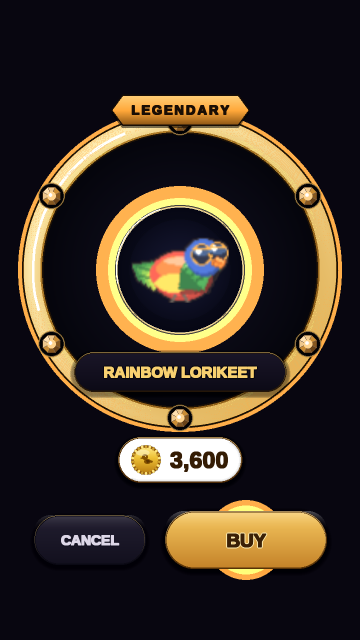
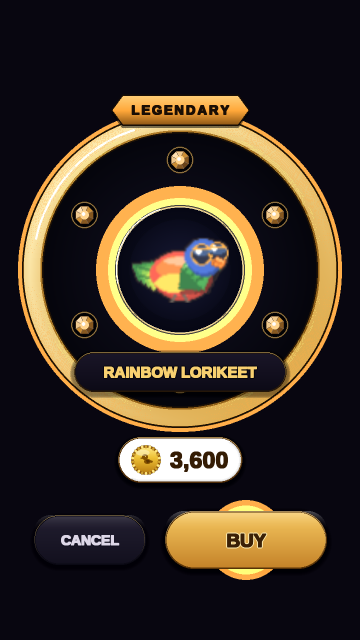
design: confirm-purchase locket-medallion concept round 2

diff --git a/scratchpad/locket_medallion_r2.py b/scratchpad/locket_medallion_r2.py
@@ -81,9 +81,10 @@ sc.soft_glow(surf, CX, CY, px(96), LEG["glow"], 30, layers=8)
 
 beveled_ring(surf, CX, CY, R_OUT, R_IN, BASE_GOLD, PALE, DEEP_GOLD)
 
-# six tier facets ringing the well, each seated in its own dark notch so the
-# amber pops off the obsidian instead of dissolving into the gold.
-gem_r = px(148)
+# six tier facets ringing the well just inside the rim, each seated in its own
+# dark notch on the obsidian so the amber pops instead of dissolving into gold
+# and the thin gold rim stays continuous.
+gem_r = px(110)
 for k in range(6):
     a = math.radians(-90 + k * 60)
     gx = int(CX + gem_r * math.cos(a))
